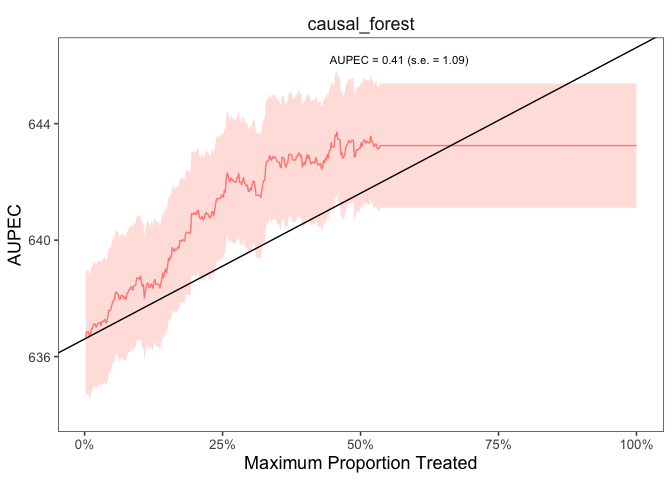
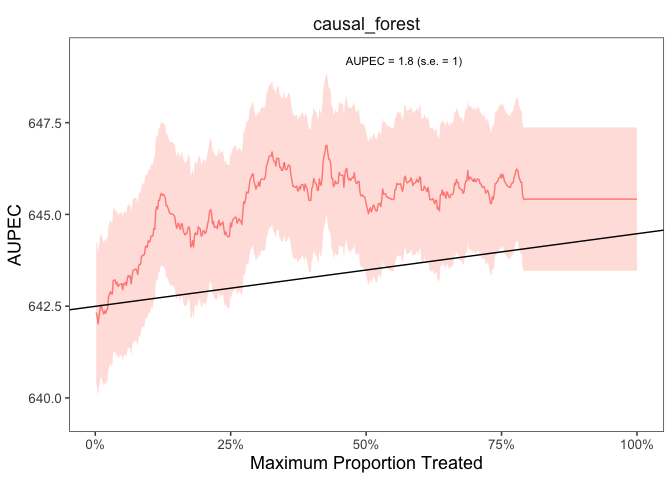
add vignettes to test web

diff --git a/README.md b/README.md
@@ -145,26 +145,26 @@ design are given in [Imai and Li
 summary(est)
 #> ── PAPE ────────────────────────────────────────────────────────────────────────
 #>   estimate std.deviation     algorithm statistic p.value
-#> 1      1.3           1.4 causal_forest      0.94    0.35
+#> 1      1.4           1.2 causal_forest       1.1    0.27
 #> 
 #> ── PAPEp ───────────────────────────────────────────────────────────────────────
 #>   estimate std.deviation     algorithm statistic p.value
-#> 1      1.8           1.1 causal_forest       1.6    0.11
+#> 1      1.6           1.3 causal_forest       1.3    0.21
 #> 
 #> ── PAPDp ───────────────────────────────────────────────────────────────────────
 #> data frame with 0 columns and 0 rows
 #> 
 #> ── AUPEC ───────────────────────────────────────────────────────────────────────
 #>   estimate std.deviation     algorithm statistic p.value
-#> 1     0.62             1 causal_forest       0.6    0.55
+#> 1      1.8             1 causal_forest       1.8   0.071
 #> 
 #> ── GATE ────────────────────────────────────────────────────────────────────────
-#>   estimate std.deviation     algorithm group statistic p.value upper lower
-#> 1      -89           106 causal_forest     1     -0.84   0.401  -264    86
-#> 2      193           108 causal_forest     2      1.79   0.073    16   371
-#> 3      114           109 causal_forest     3      1.05   0.294   -65   293
-#> 4     -153           108 causal_forest     4     -1.41   0.159  -331    26
-#> 5      -28           107 causal_forest     5     -0.26   0.796  -203   148
+#>   estimate std.deviation     algorithm group statistic p.value  upper lower
+#> 1      -24           107 causal_forest     1     -0.22   0.825 -200.3   153
+#> 2     -231           108 causal_forest     2     -2.14   0.032 -408.5   -54
+#> 3      160           109 causal_forest     3      1.47   0.141  -18.9   340
+#> 4      173           108 causal_forest     4      1.61   0.108   -4.2   351
+#> 5      -69           107 causal_forest     5     -0.64   0.521 -245.2   108
 
 # similarly for caret
 # summary(est_caret)
@@ -312,31 +312,31 @@ est_cv <- evaluate_itr(fit_cv)
 summary(est_cv)
 #> ── PAPE ────────────────────────────────────────────────────────────────────────
 #>   estimate std.deviation     algorithm statistic p.value
-#> 1   0.9540          0.82 causal_forest    1.1676    0.24
-#> 2  -0.0036          0.49         bartc   -0.0072    0.99
-#> 3   0.1733          1.07         lasso    0.1618    0.87
-#> 4   1.2657          0.95            rf    1.3347    0.18
+#> 1     0.95          0.82 causal_forest      1.17    0.24
+#> 2    -0.32          0.41         bartc     -0.79    0.43
+#> 3     0.17          1.07         lasso      0.16    0.87
+#> 4     1.27          0.95            rf      1.33    0.18
 #> 
 #> ── PAPEp ───────────────────────────────────────────────────────────────────────
 #>   estimate std.deviation     algorithm statistic p.value
 #> 1     2.55          0.65 causal_forest      3.91 9.2e-05
-#> 2     1.88          0.85         bartc      2.21 2.7e-02
+#> 2     1.45          0.89         bartc      1.63 1.0e-01
 #> 3    -0.21          0.63         lasso     -0.33 7.4e-01
 #> 4     1.69          1.11            rf      1.52 1.3e-01
 #> 
 #> ── PAPDp ───────────────────────────────────────────────────────────────────────
 #>   estimate std.deviation             algorithm statistic p.value
-#> 1     0.68          0.86 causal_forest x bartc      0.78 0.43351
+#> 1     1.11          1.01 causal_forest x bartc      1.09 0.27423
 #> 2     2.76          0.80 causal_forest x lasso      3.46 0.00054
 #> 3     0.87          0.71    causal_forest x rf      1.22 0.22292
-#> 4     2.08          1.12         bartc x lasso      1.86 0.06270
-#> 5     0.19          1.06            bartc x rf      0.18 0.85699
+#> 4     1.65          1.02         bartc x lasso      1.62 0.10506
+#> 5    -0.24          1.16            bartc x rf     -0.21 0.83600
 #> 6    -1.89          0.72            lasso x rf     -2.62 0.00892
 #> 
 #> ── AUPEC ───────────────────────────────────────────────────────────────────────
 #>   estimate std.deviation     algorithm statistic p.value
 #> 1     1.43           1.5 causal_forest      0.92    0.36
-#> 2     0.71           1.3         bartc      0.53    0.60
+#> 2     0.78           1.5         bartc      0.54    0.59
 #> 3     0.18           1.4         lasso      0.13    0.90
 #> 4     1.37           1.6            rf      0.88    0.38
 #> 
@@ -347,11 +347,11 @@ summary(est_cv)
 #> 3      60.9            59 causal_forest     3     1.034   0.301 176.4   -55
 #> 4       7.6            59 causal_forest     4     0.128   0.898 123.7  -109
 #> 5      40.9            99 causal_forest     5     0.411   0.681 235.8  -154
-#> 6      48.2            71         bartc     1     0.678   0.498 187.6   -91
-#> 7    -163.6            67         bartc     2    -2.435   0.015 -31.9  -295
-#> 8      -3.6            92         bartc     3    -0.039   0.969 177.1  -184
-#> 9      86.6            59         bartc     4     1.459   0.145 202.9   -30
-#> 10     50.6            97         bartc     5     0.520   0.603 241.3  -140
+#> 6      32.2            59         bartc     1     0.542   0.588 148.8   -84
+#> 7    -143.5            59         bartc     2    -2.435   0.015 -28.0  -259
+#> 8      33.2            82         bartc     3     0.406   0.685 193.5  -127
+#> 9      47.8            59         bartc     4     0.809   0.419 163.5   -68
+#> 10     48.5            92         bartc     5     0.529   0.597 228.3  -131
 #> 11    -14.4            94         lasso     1    -0.154   0.878 169.2  -198
 #> 12    -94.5            90         lasso     2    -1.051   0.293  81.8  -271
 #> 13     87.9            99         lasso     3     0.886   0.376 282.4  -107
